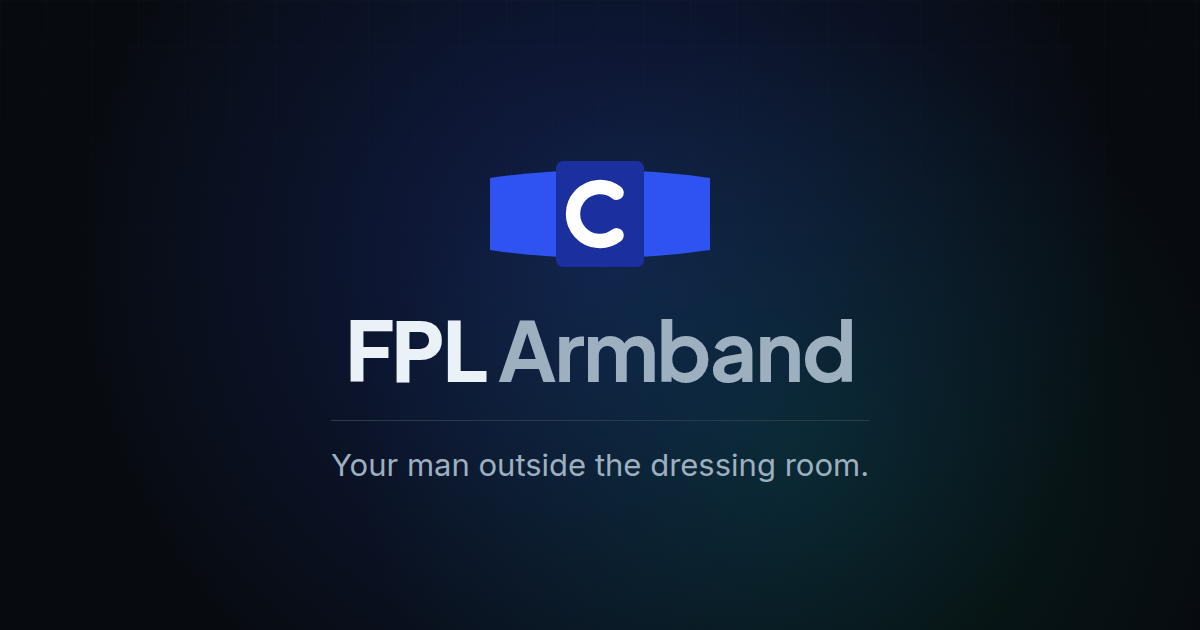
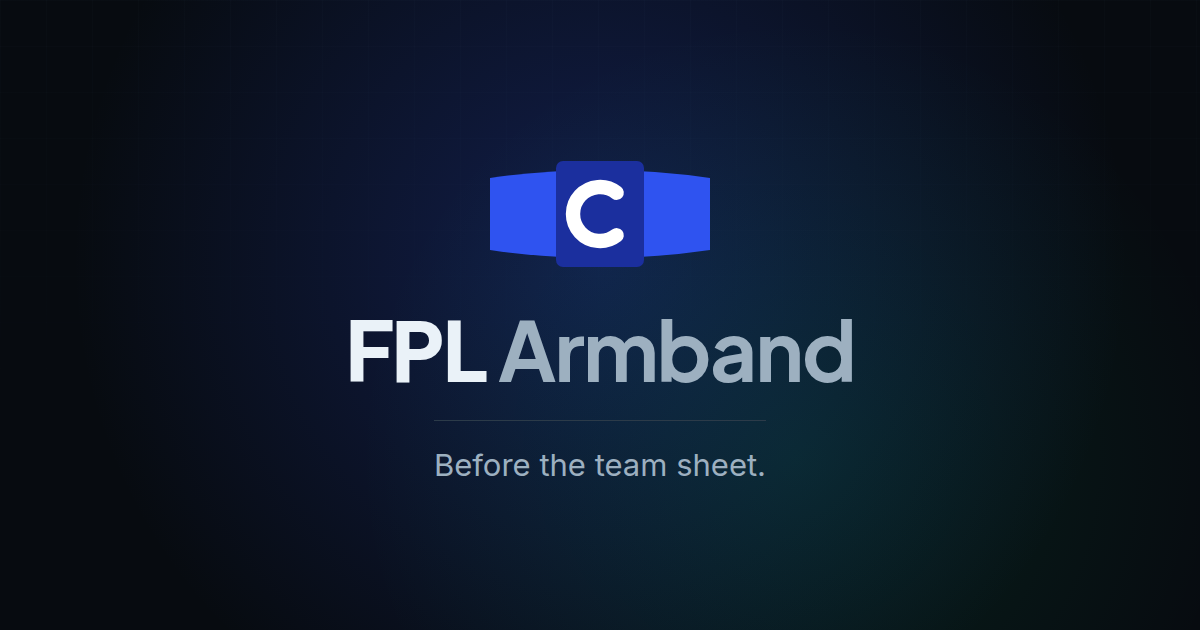
Retire the second tagline: the site now says "Before the team sheet"
"Your man outside the dressing room" replaced "Your man on the pitch" three days
ago and is itself retired. It was right about the edge -- this product's
advantage is team news, not on-pitch performance -- and wrong about how it reads:
a man outside a room where people are changing is the reading that arrives before
the intended one.

"Before the team sheet" names the deadline instead of a person. That is what the
landing page's own argument already turns on -- the rules make you pick before
the team sheet exists -- so the line now states a fact about the competition
rather than a claim about us, and it cannot be misread.

Seven occurrences, all of them: the <title> on landing and app, og:title,
twitter:title, the nav tagline, the CTA tagline, and the share card's own copy.

⚠ og-image.png is REGENERATED, not just its source edited. The card is a
screenshot of ogimage.html taken by ogimage.sh, so editing the HTML alone would
have left the served share image reading the old line -- the exact
three-files-move-together trap the sidecar config warns about elsewhere. Shot at
1200x630 with -strip, per that script.

Goldens: landing-desktop and landing-mobile only. `-update` also rewrote
armband-team-mobile and wildcard-mobile, and both were REVERTED -- neither page
carries a tagline, so this change cannot explain them and they were sub-threshold
machine noise the flag swept in. visual_test.go's own header warns about exactly
[…]

Changed region(s): [[0.2775, 0.7238, 0.74, 0.7841]]

diff --git a/internal/webui/assets/pages/landing.html b/internal/webui/assets/pages/landing.html
@@ -3,7 +3,7 @@
 <head>
 <meta charset="utf-8">
 <meta name="viewport" content="width=device-width,initial-scale=1,viewport-fit=cover">
-<title>FPL Armband — your man outside the dressing room</title>
+<title>FPL Armband — before the team sheet</title>
 <meta name="description" content="Every Fantasy Premier League player marked from Nailed down to Fringe before you pick him, with FPL's own team news read into his score — and the working shown, so the call stays yours. Free while it's in preview.">
 <link rel="icon" href="/assets/favicon.svg" type="image/svg+xml">
 <link rel="icon" href="/assets/favicon-32.png" sizes="32x32" type="image/png">
@@ -17,14 +17,14 @@
 <meta property="og:type" content="website">
 <meta property="og:site_name" content="FPL Armband">
 <meta property="og:url" content="https://fplarmband.com/">
-<meta property="og:title" content="FPL Armband — your man outside the dressing room">
+<meta property="og:title" content="FPL Armband — before the team sheet">
 <meta property="og:description" content="Every Fantasy Premier League player marked from Nailed down to Fringe before you pick him, with FPL's own team news read into his score. The working is shown, so the call stays yours.">
 <meta property="og:image" content="https://fplarmband.com/assets/og-image.png">
 <meta property="og:image:width" content="1200">
 <meta property="og:image:height" content="630">
 <meta property="og:image:alt" content="The FPL Armband mark: a captain's armband carrying the C.">
 <meta name="twitter:card" content="summary_large_image">
-<meta name="twitter:title" content="FPL Armband — your man outside the dressing room">
+<meta name="twitter:title" content="FPL Armband — before the team sheet">
 <meta name="twitter:description" content="Every Fantasy Premier League player marked from Nailed down to Fringe before you pick him, with FPL's own team news read into his score. The working is shown, so the call stays yours.">
 <meta name="twitter:image" content="https://fplarmband.com/assets/og-image.png">
 <!-- The GA4 measurement id, filled in by the server per request when ARMBAND_GA4_ID is
@@ -408,7 +408,7 @@ footer a{color:var(--ink3);}
       </svg>
       <span class="wordmark">FPL <em>Armband</em></span>
     </a>
-    <span class="tagline hideSm" data-copy="ln.tagline">Your man outside the dressing room.</span>
+    <span class="tagline hideSm" data-copy="ln.tagline">Before the team sheet.</span>
     <span class="spacer"></span>
     <span class="pill on" data-copy="ln.previewpill">Open preview</span>
   </nav>
@@ -768,7 +768,7 @@ footer a{color:var(--ink3);}
         </svg>
         <span class="wordmark">FPL <em>Armband</em></span>
       </a>
-      <span class="tagline" data-copy="cta.tagline">Your man outside the dressing room.</span>
+      <span class="tagline" data-copy="cta.tagline">Before the team sheet.</span>
     </div>
     <span class="pill on" data-copy="cta.pill">Open preview · 2026/27</span>
     <h2 class="t-sec" data-copy="cta.head">Gameweek 1 locks Friday.</h2>

diff --git a/internal/webui/assets/pages/app.html b/internal/webui/assets/pages/app.html
@@ -3,7 +3,7 @@
 <head>
 <meta charset="utf-8">
 <meta name="viewport" content="width=device-width,initial-scale=1,viewport-fit=cover">
-<title>FPL Armband — your man outside the dressing room</title>
+<title>FPL Armband — before the team sheet</title>
 <link rel="icon" href="/assets/favicon.svg" type="image/svg+xml">
 <link rel="icon" href="/assets/favicon-32.png" sizes="32x32" type="image/png">
 <link rel="apple-touch-icon" href="/assets/icon-180.png">

diff --git a/internal/webui/ogimage.html b/internal/webui/ogimage.html
@@ -73,7 +73,7 @@
           stroke-width="7.2" stroke-linecap="round"/>
   </svg>
   <div class="wordmark">FPL <em>Armband</em></div>
-  <div class="tagline">Your man outside the dressing room.</div>
+  <div class="tagline">Before the team sheet.</div>
 </div>
 </body>
 </html>
